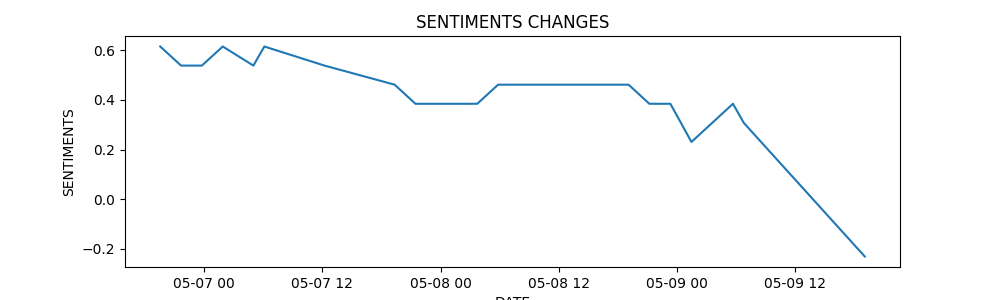
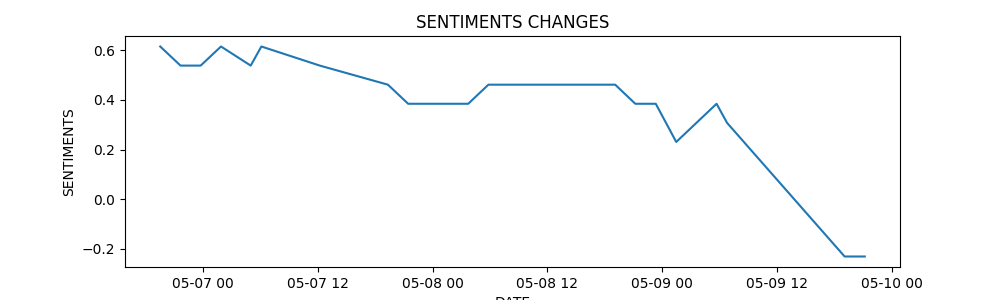
Commit

diff --git a/finance.html b/finance.html
@@ -13,7 +13,7 @@
                 <img style = "width:70px;" src="image/MNAZ.gif" alt="MNAZ Web">
                 <button id="darkModeToggle">Toggle Dark Mode</button>
               </header>
-              <h2>Date: 2023-05-09 19:03:47.522112</h2>
+              <h2>Date: 2023-05-09 21:10:34.848211</h2>
               <div class="container">
                 <div class="half">
                   <h2>News</h2>
@@ -24,8 +24,9 @@
 <li style = 'font-weight: bold;'>U.S. CPI ahead, Chinese trade data, Saudi Aramco dividend - what's moving markets<ul><li style = 'font-size: smaller;font-style: italic;'>Neutral</li></ul></li>
 <li style = 'font-weight: bold;'>Lowered margin growth expectations push PayPal shares lower despite Q1 beat<ul><li style = 'font-size: smaller;font-style: italic;'>Negative</li></ul></li>
 <li style = 'font-weight: bold;'>4 big analyst picks: Block a Buy after Q1<ul><li style = 'font-size: smaller;font-style: italic;'>Neutral</li></ul></li>
+<li style = 'font-weight: bold;'>Chinese data, U.S. debt ceiling worries push stocks down<ul><li style = 'font-size: smaller;font-style: italic;'>Negative</li></ul></li>
+<li style = 'font-weight: bold;'>Dow futures fall 125 pts; caution ahead of consumer inflation data<ul><li style = 'font-size: smaller;font-style: italic;'>Neutral</li></ul></li>
 <li style = 'font-weight: bold;'>Marketmind: Showdown on the ceiling<ul><li style = 'font-size: smaller;font-style: italic;'>Neutral</li></ul></li>
-<li style = 'font-weight: bold;'>Chinese data, U.S. debt ceiling worries send shares lower<ul><li style = 'font-size: smaller;font-style: italic;'>Negative</li></ul></li>
 <li style = 'font-weight: bold;'>Shares rise, dollar flat ahead of key U.S. inflation data<ul><li style = 'font-size: smaller;font-style: italic;'>Positive</li></ul></li>
 <li style = 'font-weight: bold;'>Stock market today: Dow slips to close lower ahead of key inflation report<ul><li style = 'font-size: smaller;font-style: italic;'>Negative</li></ul></li>
 <li style = 'font-weight: bold;'>S&P 500 struggles for direction ahead of inflation data<ul><li style = 'font-size: smaller;font-style: italic;'>Neutral</li></ul></li>
@@ -33,7 +34,6 @@
 <li style = 'font-weight: bold;'>Dow futures little changed, inflation and earnings in focus<ul><li style = 'font-size: smaller;font-style: italic;'>Neutral</li></ul></li>
 <li style = 'font-weight: bold;'>Top 5 things to watch in markets in the week ahead<ul><li style = 'font-size: smaller;font-style: italic;'>Neutral.</li></ul></li>
 <li style = 'font-weight: bold;'>InvestingPro exclusive: Vertex is a Biotech Beast + 4 More Poised to Soar<ul><li style = 'font-size: smaller;font-style: italic;'>Positive</li></ul></li>
-<li style = 'font-weight: bold;'>Warren Buffett faults handling of bank failures, upbeat on U.S., Berkshire<ul><li style = 'font-size: smaller;font-style: italic;'>Neutral</li></ul></li>
                   </ul>
                 </div>
                 <div class="half">
@@ -59,16 +59,16 @@
                         Positive: 30%
                     </li>
                     <li style = 'font-size: smaller;font-style: italic;'>
-                        Negative: 46%
+                        Negative: 38%
                     </li>
                     <li style = 'font-size: smaller;font-style: italic;'>
-                        Neutral: 23%
+                        Neutral: 30%
                     </li>
                 </ul>
                 <p style = 'font-weight:bold;'>BAYES CLASS</p>
                 <ul>
                     <li style = 'font-size: smaller;font-style: italic;'>
-                        BUY
+                        SELL
                     </li>
                 
                     </li>
